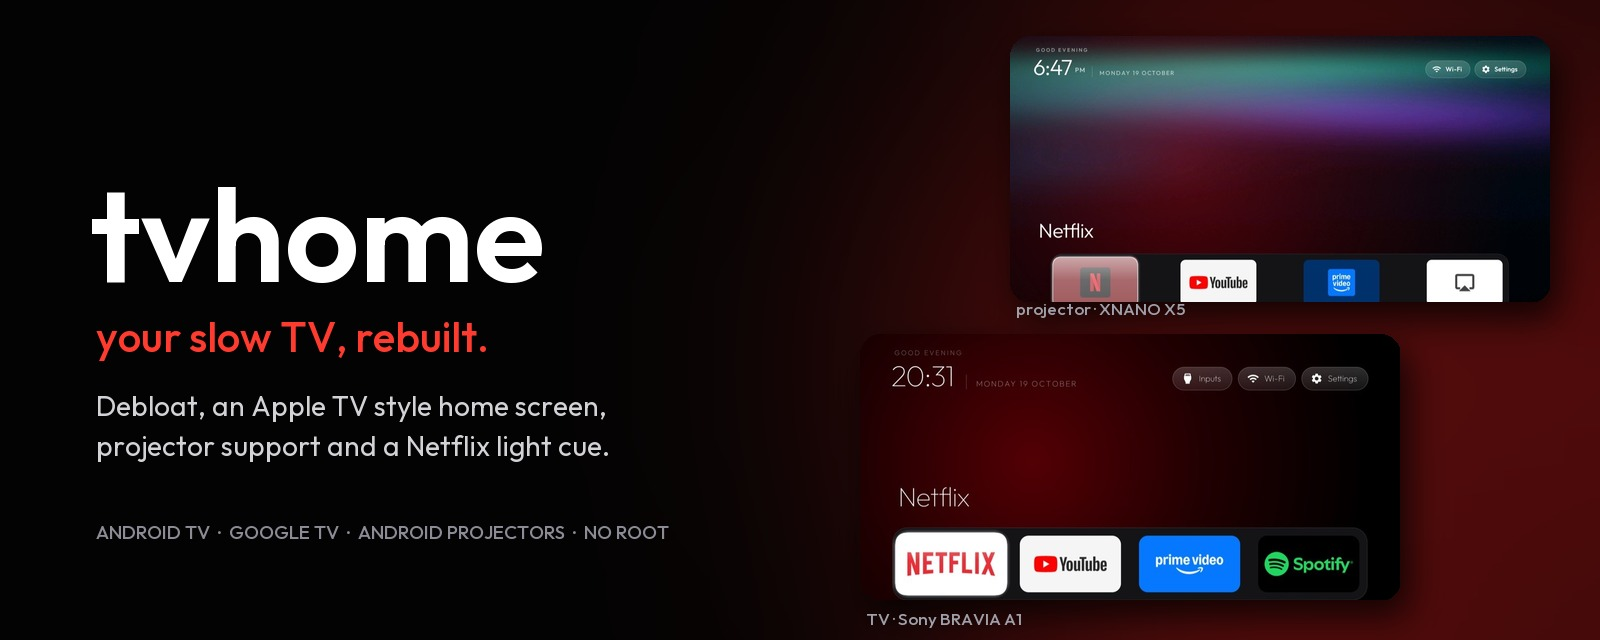
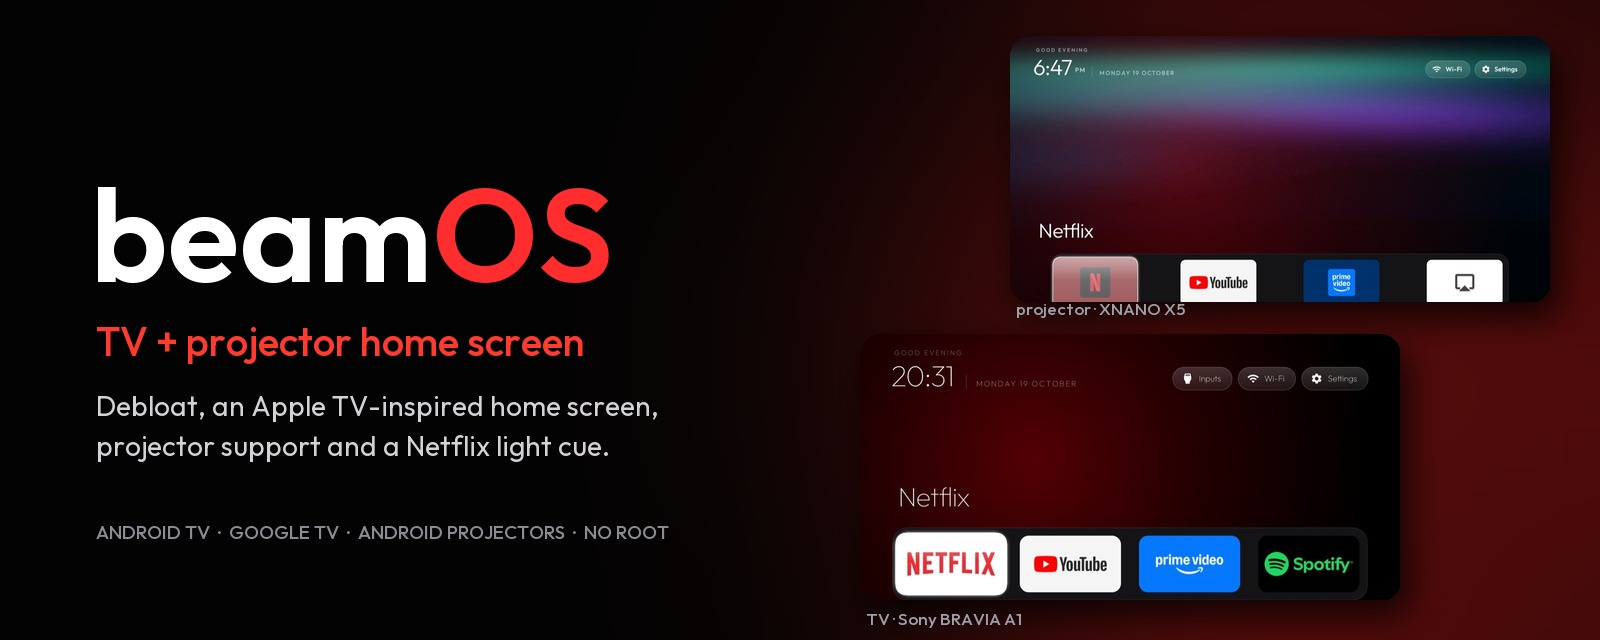
Rename to beamOS, add support buttons, tighten README claims
beamOS is the product name; the repo becomes beamOS-tv-projector-home. Adds a support section
with an animated PayPal coffee button and a star button, a trademark disclaimer, an accessibility
install step that keeps existing services on, and only claims we measured.

Changed region(s): [[0.0625, 0.2812, 0.4062, 0.4688], [0.0625, 0.5, 0.375, 0.5625], [0.2188, 0.625, 0.4062, 0.6562]]

diff --git a/README.md b/README.md
@@ -1,14 +1,14 @@
 <p align="center">
-  <img src="assets/readme-banner.jpg" alt="tvhome: a Sony BRAVIA A1 and an XNANO X5 projector running the same clean home screen" width="100%" />
+  <img src="assets/readme-banner.jpg" alt="beamOS: a Sony BRAVIA A1 and an XNANO X5 projector running the same clean home screen" width="100%" />
 </p>
 
-<h1 align="center">tvhome</h1>
-<p align="center"><em>your slow TV, rebuilt.</em></p>
+<h1 align="center">beamOS</h1>
+<p align="center"><em>the home screen your TV and projector should have shipped with.</em></p>
 
-<h3 align="center">A Sony TV and a no-name projector, both quicker than the day they came out of the box.</h3>
+<h3 align="center">A Sony TV with twice the free memory, and a no-name projector that finally behaves like a TV.</h3>
 
 <p align="center">
-  Strip the bloat over Wi-Fi, swap the ad-filled home screen for an Apple TV style one, and make it work
+  Strip the bloat over Wi-Fi, swap the ad-filled home screen for an Apple TV-inspired one, and make it work
   on Android projectors that ship with a tablet build. No root, nothing uninstalled, one line to undo.
 </p>
 
@@ -19,9 +19,22 @@
   <a href="#how-it-works"><img alt="No root" src="https://img.shields.io/badge/root-not%20needed-ff4500?style=for-the-badge&labelColor=0a0a0a"></a>
 </p>
 
-<p align="center"><sub><a href="#what-changed">What changed</a> · <a href="#quick-start">Quick start</a> · <a href="#projectors">Projectors</a> · <a href="#the-home-screen">Home screen</a> · <a href="#netflix-light-cue">Light cue</a> · <a href="#keeping-it-fast">Keeping it fast</a> · <a href="#how-it-works">How it works</a> · <a href="#credits">Credits</a></sub></p>
+<p align="center"><sub><a href="#support-beamos">Support</a> · <a href="#what-changed">What changed</a> · <a href="#quick-start">Quick start</a> · <a href="#projectors">Projectors</a> · <a href="#the-home-screen">Home screen</a> · <a href="#netflix-light-cue">Light cue</a> · <a href="#keeping-it-fast">Keeping it fast</a> · <a href="#how-it-works">How it works</a> · <a href="#credits">Credits</a></sub></p>
 
 ---
+
+## Support beamOS
+
+<p align="center">
+  Your TV got its speed back for free. If that saved you an evening of fiddling (or a new TV),<br>
+  a coffee keeps new device lists and projector fixes coming. Starring the repo helps the next person find it.
+</p>
+
+<p align="center">
+  <a href="https://www.paypal.com/paypalme/SuryaThakur140"><img src="assets/btn-paypal.svg" alt="Buy me a coffee with PayPal" height="64"></a>
+  &nbsp;
+  <a href="https://github.com/SuryaThakur999/beamOS-tv-projector-home/stargazers"><img src="assets/btn-star.svg" alt="Star beamOS on GitHub" height="64"></a>
+</p>
 
 ## What changed
 
@@ -46,7 +59,7 @@ You need a computer with `adb` on the same Wi-Fi as the TV, and USB debugging sw
 developer options. Accept the "Allow USB debugging?" prompt on the TV once.
 
 ```bash
-git clone https://github.com/SuryaThakur999/tvhome && cd tvhome
+git clone https://github.com/SuryaThakur999/beamOS-tv-projector-home && cd beamOS-tv-projector-home
 
 # 1. back up, then disable the bloat for your device (or start from the closest example)
 TV_HOST=192.168.1.50 tools/disable.sh examples/sony-kd65a1/debloat.txt
@@ -58,7 +71,7 @@ TV_HOST=192.168.1.50 launcher/build-and-install.sh
 TV_HOST=192.168.1.50 tools/restore.sh examples/sony-kd65a1/debloat.txt
 ```
 
-There are 30+ device lists in [`examples/`](examples/) from the original project, plus two new ones:
+Tested on Android 9 (Sony A1) and Android 11 (XNANO X5). There are 30+ device lists in [`examples/`](examples/) from the original project, plus two new ones:
 [`sony-kd65a1`](examples/sony-kd65a1/debloat.txt) and [`xnano-x5`](examples/xnano-x5/debloat.txt).
 The full walkthrough from the original project is in [docs/cleanyourtv-README.md](docs/cleanyourtv-README.md).
 
@@ -66,7 +79,7 @@ The full walkthrough from the original project is in [docs/cleanyourtv-README.md
 
 Cheap Android projectors (Rockchip, Allwinner, Amlogic boards sold as XNANO, Magcubic and others) often run a
 **tablet** build of Android, not Android TV. Most launchers break on them: phone apps such as Netflix or Prime Video
-have no TV entry point, so they never appear. tvhome handles that:
+have no TV entry point, so they never appear. beamOS handles that:
 
 - **Tablet builds detected automatically.** With no leanback feature present, the grid lists the normal app icons too.
 - **Dock apps always show.** An app you pin to the dock appears even if it only has a phone launcher entry.
@@ -77,13 +90,13 @@ have no TV entry point, so they never appear. tvhome handles that:
 - **Themes push on Android 11+.** `adb push` into `Android/data` fails there (`fchown` is not permitted), so the tools
   stream the file through the shell instead.
 
-One projector quirk worth knowing: the XNANO stock launcher holds the permission to reset your Home choice, so the
-"Use tvhome as Home, Always" prompt keeps coming back. Disable it only after tvhome is installed:
+One projector quirk worth knowing: the XNANO stock launcher has the permission to change the default Home app, and the
+"Use beamOS as Home, Always" prompt keeps coming back while it is enabled. Disable it only after beamOS is installed:
 `adb shell pm disable-user --user 0 com.zhenhuo.elevenlauncher`.
 
 ## The home screen
 
-The launcher follows Apple's tvOS home screen and Apple's own motion guidance:
+The launcher is Apple TV-inspired and follows Apple's published motion guidance:
 
 - **5:3 tiles**, the Apple TV app icon proportion, four to a row by default.
 - **Focus that lifts.** The focused tile grows 1.12x and rises on a soft shadow, eases out over 200 ms and settles
@@ -100,7 +113,7 @@ Change the dock, columns or wallpaper without rebuilding: edit a theme in [`them
 when Netflix opens, so the room goes dark as the film starts.
 
 - **No Wi-Fi, no Govee account, no pairing.** It finds the nearest Govee bulb by its Bluetooth name on first start.
-- **Fast.** It holds one standing Bluetooth link, so the light reacts about half a second after Netflix opens.
+- **Fast.** It holds one standing Bluetooth link; in our test on a Sony A1 the light reacted about half a second after Netflix opened.
 - **Light on the TV.** About 3 MB of RAM and no CPU while idle; it only wakes when the app in front changes.
 
 Tested with a Govee H6008 bulb from a Sony A1. The colour command differs between Govee models, so other bulbs may
@@ -111,7 +124,11 @@ control that one bulb.
 cd lights && ./gradlew assembleRelease
 adb install -r app/build/outputs/apk/release/app-release.apk
 adb shell pm grant io.github.tvhome.lights android.permission.ACCESS_FINE_LOCATION
-adb shell settings put secure enabled_accessibility_services io.github.tvhome.lights/io.github.tvhome.lights.LightsService
+# add the service without switching off other accessibility services (TalkBack and similar)
+cur=$(adb shell settings get secure enabled_accessibility_services | tr -d '\r')
+new=io.github.tvhome.lights/io.github.tvhome.lights.LightsService
+[ "$cur" = "null" ] || [ -z "$cur" ] || new="$cur:$new"
+adb shell settings put secure enabled_accessibility_services "$new"
 adb shell settings put secure accessibility_enabled 1
 ```
 
@@ -139,11 +156,16 @@ tooling does the rest: back up the package list, disable telemetry, ad services 
 
 ## Credits
 
-tvhome builds on [**cleanyourtv**](https://github.com/Gathin23/cleanyourtv) by [Gathin](https://github.com/Gathin23):
-the original debloat tools, the device lists and the launcher this project extends. Go star it.
+beamOS builds on [**cleanyourtv**](https://github.com/Gathin23/cleanyourtv) by [Gathin](https://github.com/Gathin23):
+the original debloat tools, the device lists and the launcher this project extends. If beamOS helped, star the original too.
 
 This fork adds projector support, the brand tiles and focus motion, the screensaver fix, the light cue, the
 maintenance and recovery tools, and the Sony A1 and XNANO X5 lists.
+
+## Disclaimer
+
+beamOS is an independent project. It is not affiliated with or endorsed by Apple, Sony, Netflix, Google or Govee.
+Product names are used only to describe compatibility.
 
 ## License
 
